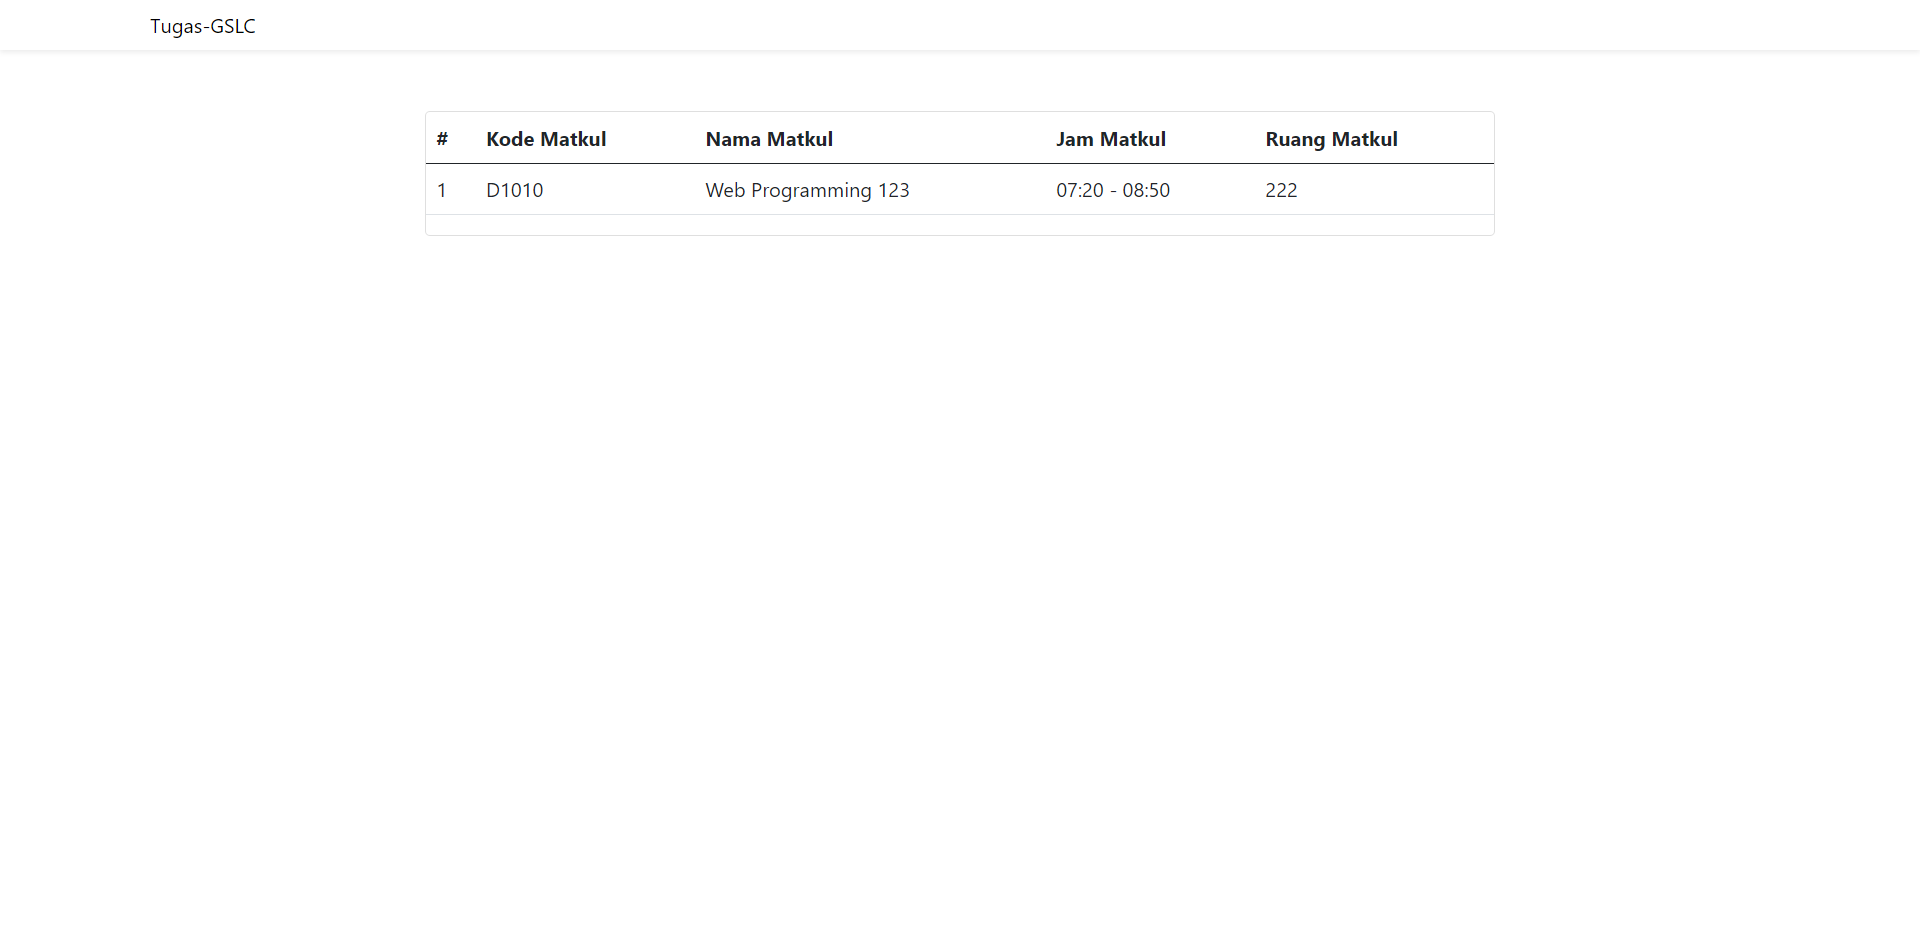
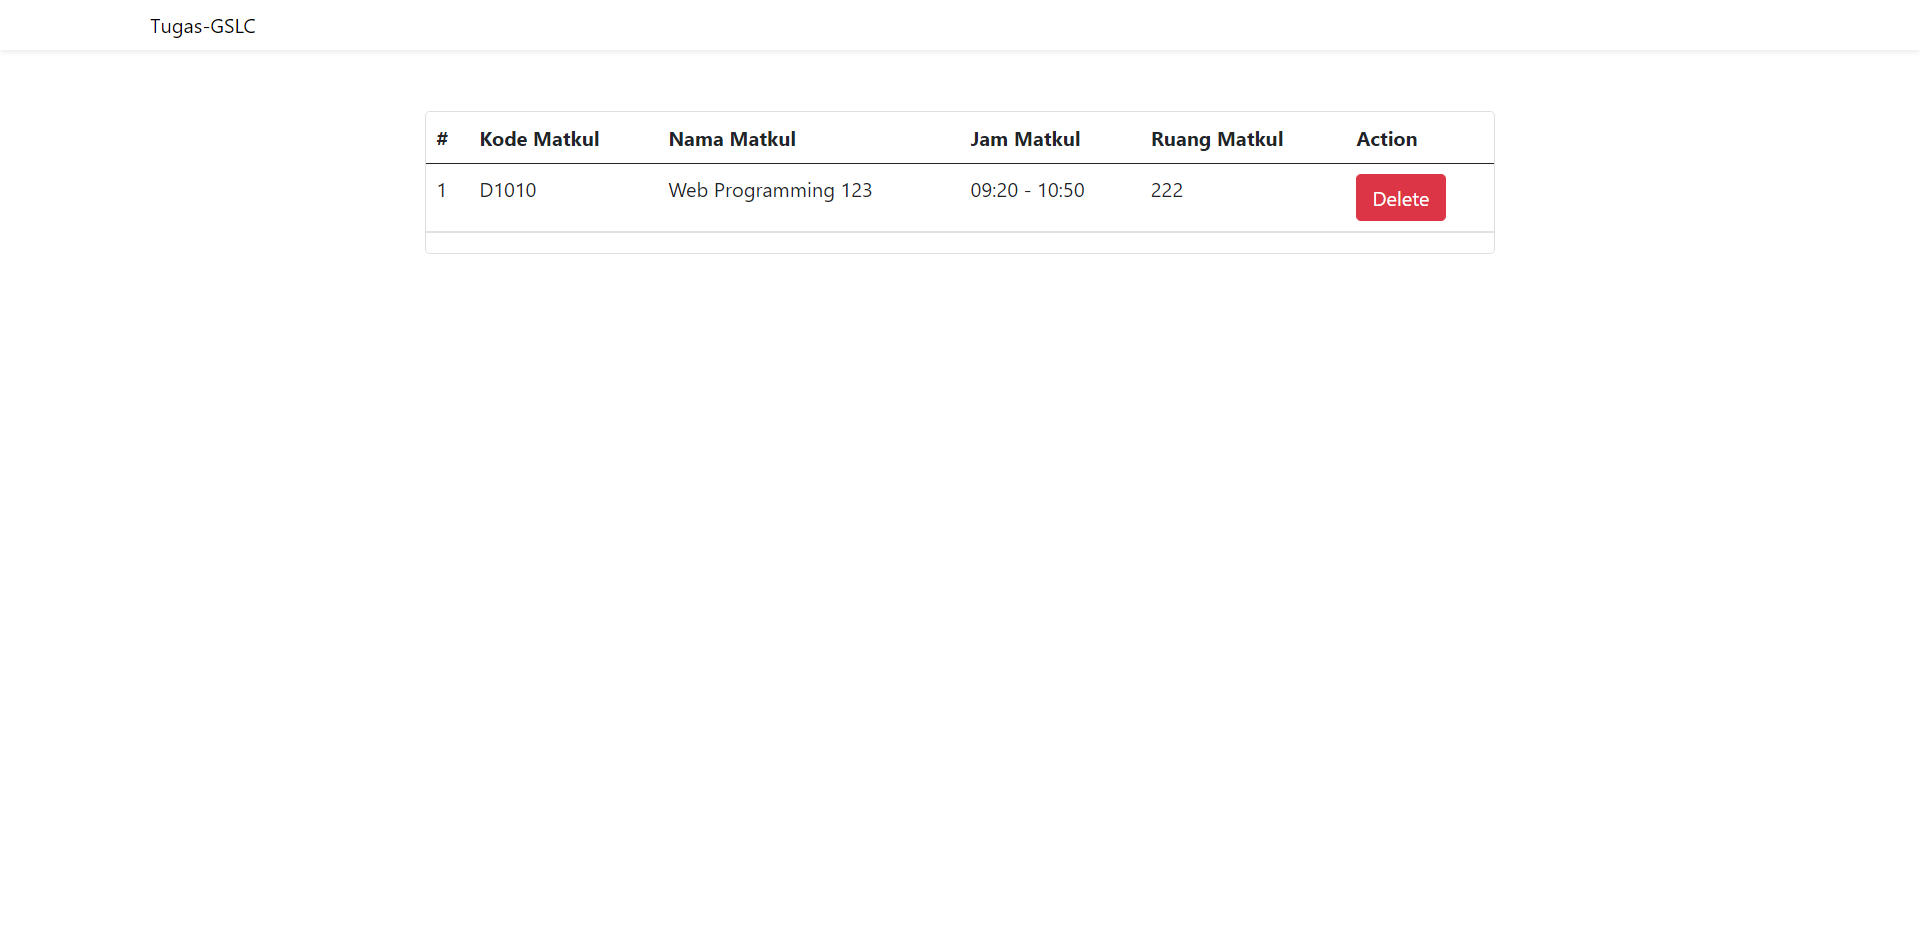
UpdateGithub

diff --git a/File routes.php,  .blade.php, dan controller/Controllers/HomeController.php b/File routes.php,  .blade.php, dan controller/Controllers/HomeController.php
@@ -1,0 +1,52 @@
+<?php
+
+namespace App\Http\Controllers;
+
+use App\Http\Requests\DataRequest;
+use App\Models\Data;
+use Illuminate\Http\Request;
+
+class HomeController extends Controller
+{
+    /**
+     * Create a new controller instance.
+     *
+     * @return void
+     */
+
+    /**
+     * Show the application dashboard.
+     *
+     * @return \Illuminate\Contracts\Support\Renderable
+     */
+    public function index()
+    {
+        return view('home');
+    }
+
+    public function Create(DataRequest $request)
+    {
+        Data::create([
+            'kode_matkul' => $request->kode_matkul,
+            'nama_matkul' => $request->nama_matkul,
+            'jam_matkul' => $request->jam_matkul,
+            'ruang_matkul' => $request->ruang_matkul
+        ]);
+        return view('home');
+    }
+
+    public function View() {
+        $datas = Data::all();
+        return view('CRUD.view', ['datas' => $datas]);
+    }
+
+    public function CreateView() {
+        return view('CRUD.create');
+    }
+
+    public function Delete($id) {
+        $data = Data::find($id);
+        $data->delete();
+        return redirect(route('view'));
+    }
+}

diff --git a/File routes.php,  .blade.php, dan controller/Controllers/Controller.php b/File routes.php,  .blade.php, dan controller/Controllers/Controller.php
@@ -1,0 +1,13 @@
+<?php
+
+namespace App\Http\Controllers;
+
+use Illuminate\Foundation\Auth\Access\AuthorizesRequests;
+use Illuminate\Foundation\Bus\DispatchesJobs;
+use Illuminate\Foundation\Validation\ValidatesRequests;
+use Illuminate\Routing\Controller as BaseController;
+
+class Controller extends BaseController
+{
+    use AuthorizesRequests, DispatchesJobs, ValidatesRequests;
+}
